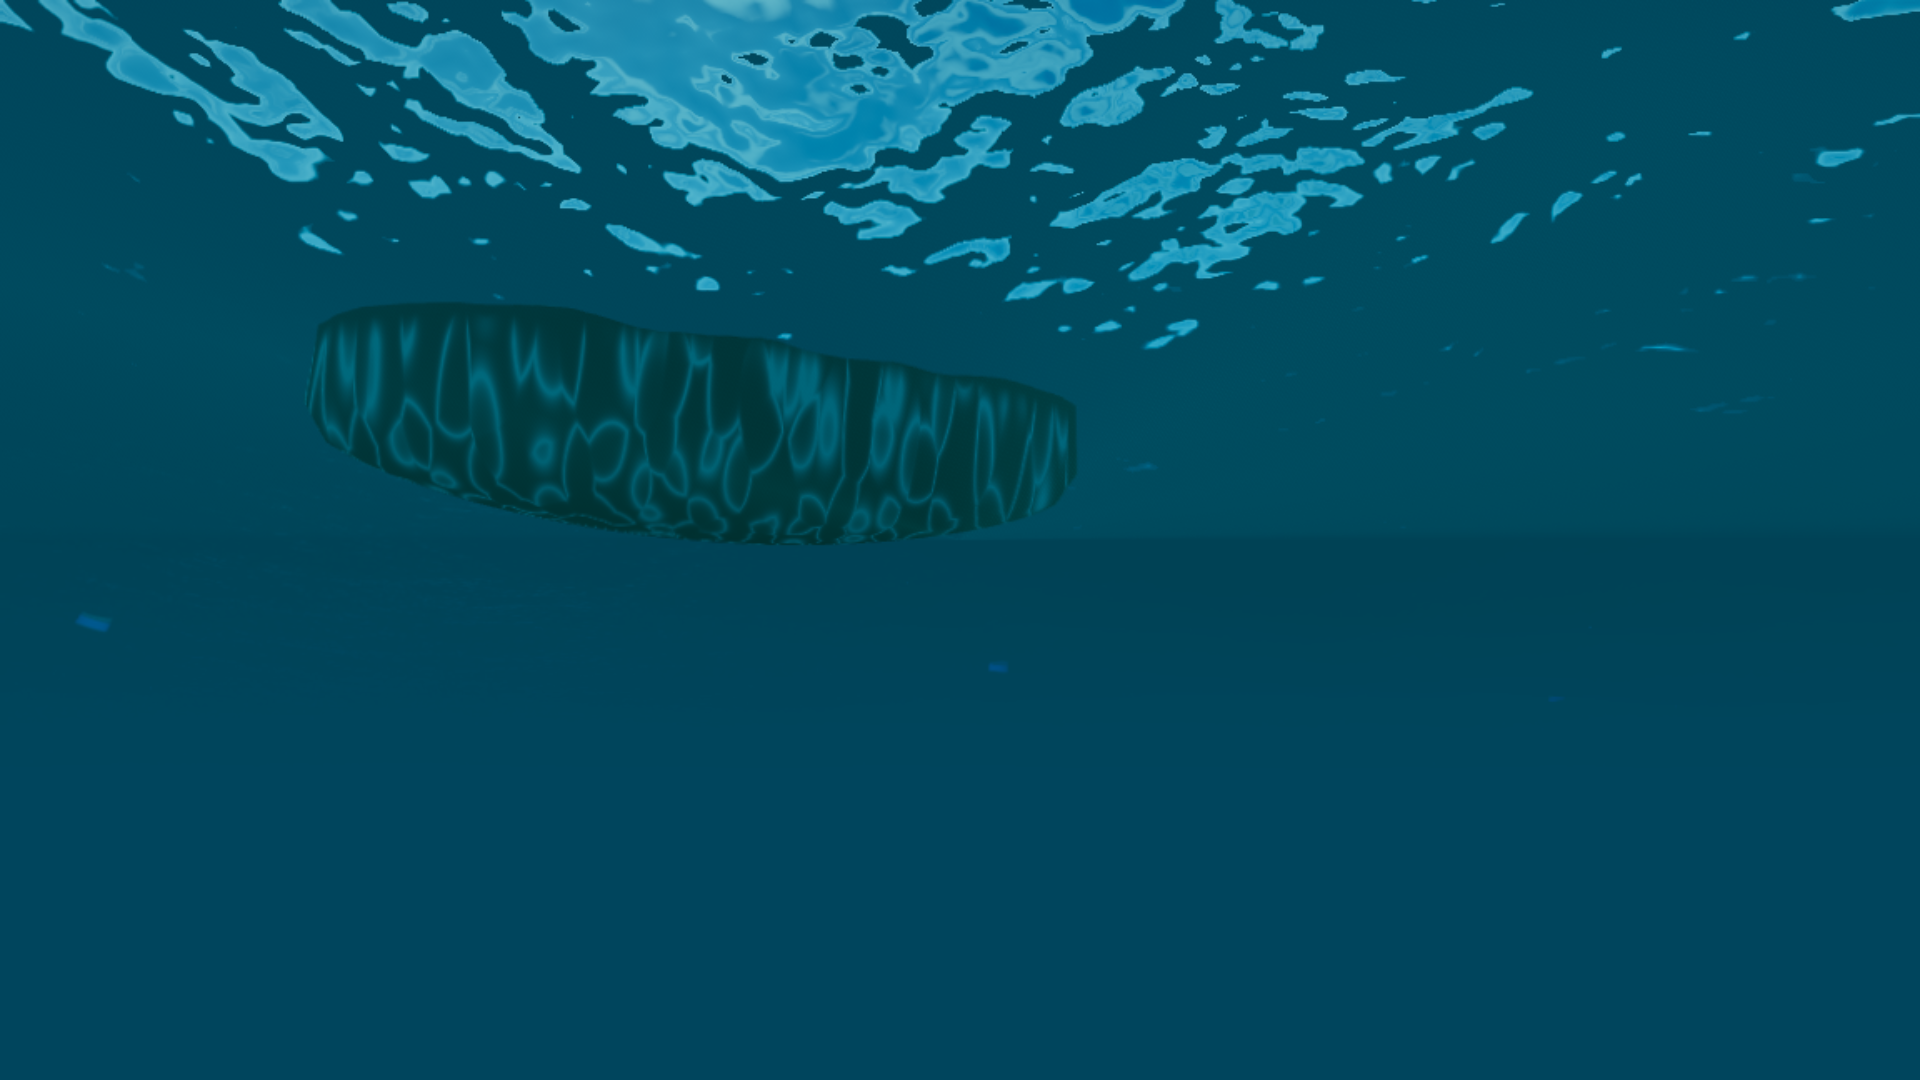
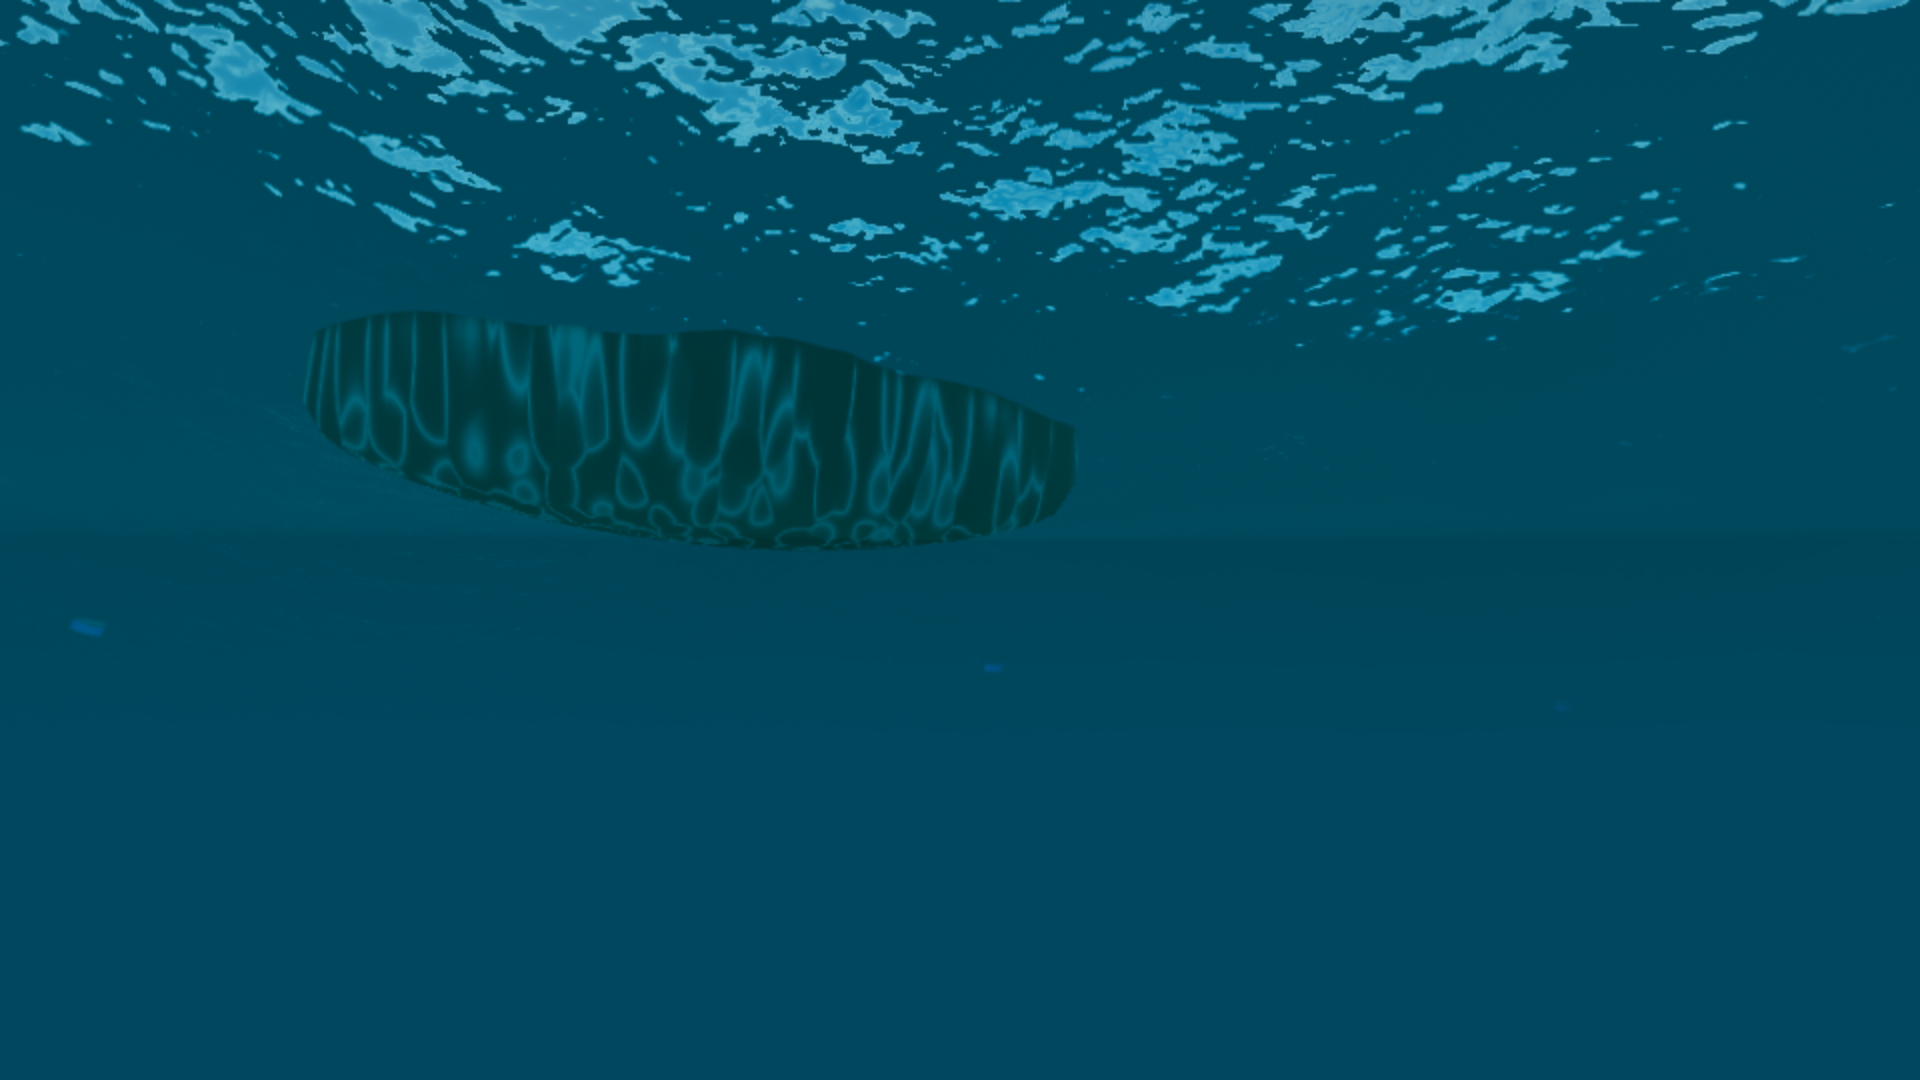
Find out why their water is a window and ours is a surface
Read their public API docs and changelog, and looked at the demo as an ordinary
visitor — research.md section 4's allowed side of the line, no bundle, no
assets, and the frames stay in a scratch directory.

The wave simulation is not the gap. Their published architecture is the same
family as ours down to the details: FFT on a JONSWAP spectrum, three cascades
named swell/waves/ripples, Jacobian breaking, per-channel Beer-Lambert, clipmap
LOD, metres and seconds. Everything we are behind on sits above that.

The one sentence that covers most of the still-frame difference is that their
water is a window and ours is a surface. In their foreground the reef reads from
near-black channels to bright sand, refracted and wobbling with the surface,
with the specular sitting on top of it. Ours is a pale wash.

The cause is in our own render order. main.js:137 puts a seabed mesh in the
scene and renders it. material.js:51 then draws an opaque water surface straight
over it and reconstructs the bottom analytically inside the shader instead. We
render the bottom twice and ship the worse one — and the analytic path
structurally cannot have real geometry, cannot hold the dynamic range (its
albedo spans 0.30 to 0.52 of the sand colour), and cannot show a submerged
object at all, which is why the hull vanishes below the waterline from above.

Their changelog names the same thing from the other side: "see-through thin
water from above; opaque at grazing angles."
[…]

diff --git a/src/ocean/material.js b/src/ocean/material.js
@@ -423,10 +423,40 @@ export function createOceanMaterial( env, field, sky, opts = {} ) {
 			// by the same scattering that limits visibility. Without this term they
 			// were painted at full strength onto every depth, and a lagoon lit at noon
 			// blew the whole frame to cream.
+			//
+			// And a caustic is focused *sunlight*, so anything that blocks the sun
+			// blocks it. The hull's shadow ellipse is already computed below for the
+			// surface; the bottom under her was still being lit at full strength,
+			// which is the giveaway that the caustic is a texture rather than light.
+			// Same ellipse, evaluated at the seabed point instead of the surface
+			// point, because that is where this light would have landed.
+			const bedShadow = float( 1.0 ).toVar( 'bedShadow' );
+
+			If( u.vesselMix.greaterThan( 0.001 ), () => {
+
+				const drop = u.sunDir.xz.div( max( u.sunDir.y, float( 0.30 ) ) )
+					.mul( waterDepth.add( 1.4 ) );
+				const relS = bedPoint.xz.sub( u.vesselPos.xz ).add( drop );
+				const c = u.vesselDir.x, sn = u.vesselDir.y;
+				const local = vec2(
+					relS.x.mul( c ).sub( relS.y.mul( sn ) ),
+					relS.x.mul( sn ).add( relS.y.mul( c ) )
+				).div( u.vesselHalf );
+
+				// Softer than the surface shadow: the penumbra of a hull seen from
+				// the seabed grows with the depth of water it is cast through.
+				const soft = waterDepth.mul( 0.06 ).add( 0.35 );
+				bedShadow.assign( oneMinus(
+					oneMinus( smoothstep( float( 0.55 ), float( 0.55 ).add( soft ), length( local ) ) ).mul( 0.85 )
+				) );
+
+			} );
+
 			const caustic = causticPattern( bedPoint.xz, u.time, float( 1.15 ) )
 				.mul( u.causticStrength )
 				.mul( exp( waterDepth.mul( - 0.11 ) ) )
 				.mul( saturate( u.sunDir.y.mul( 2.0 ) ) )
+				.mul( bedShadow )
 				.toVar( 'caustic' );
 
 			bedColor.assign( seabedAlbedo( bedPoint.xz, u.seabedColor )

diff --git a/gap-analysis.md b/gap-analysis.md
@@ -1,0 +1,167 @@
+# 상용 참조와의 근본 차이 — 조사 결과
+
+2026-08-02. 대상: Three.js Water Pro (threejswaterpro.com).
+
+## 0. 조사 방법과 경계
+
+`research.md` §4를 그대로 따랐다.
+
+- **한 것**: 일반 방문자로 데모 페이지를 열어 관찰, 공개 문서 사이트
+  (`docs.threejswaterpro.com`)의 API 레퍼런스·체인지로그 열람, 공개 기법 문헌 대조.
+- **하지 않은 것**: 번들 디컴파일, 비공개 셰이더·텍스처·모델·설정 추출,
+  네트워크 요청에서 자산 저장. 관찰용 스크린샷은 스크래치패드에만 두고
+  저장소에 넣지 않았으며 텍스처·배경으로 쓰지 않는다.
+- 이 문서의 모든 항목은 **공개 정보 또는 화면 관찰**에서 나온 것이고,
+  구현 방법은 전부 공개된 일반 기법으로 우리가 독자적으로 재작성할 대상이다.
+
+## 1. 같은 것 — 여기는 격차가 아니다
+
+공개 문서가 명시한 그들의 기반은 우리와 사실상 같은 계열이다.
+
+| 항목 | 그들 | 우리 |
+|---|---|---|
+| 파동 | FFT, JONSWAP 스펙트럼 | FFT, JONSWAP 스펙트럼 |
+| 캐스케이드 | 3단 (swell / waves / ripples) | 3단 (512 / 96 / 18 m) |
+| 파괴 판정 | Jacobian 기반 | Jacobian 기반 |
+| 지오메트리 | clipmap + LOD | 동심 링 + LOD |
+| 흡수 | Beer–Lambert 채널별 | Beer–Lambert 채널별 |
+| 물리 단위 | 실제 m/s로 보정 | Hs 실측 1.948 m / 요청 2.0 m |
+| 부력 | 있음 | 4점 평면 피팅 |
+| 백엔드 | TSL + WebGPU, WebGL 폴백 | TSL + WebGPU, WebGL 2 폴백 |
+
+**즉 파동 시뮬레이션은 격차가 아니다.** 우리가 뒤지는 곳은 전부 그 위쪽,
+"물을 어떻게 보이게 하는가"에 있다.
+
+## 2. 근본 차이 — 관찰에서 나온 한 문장
+
+> **그들의 물은 창(window)이고, 우리 물은 표면(surface)이다.**
+
+참조 데모의 전경에서는 산호초·모래·깊은 수로가 **거의 검정부터 밝은 청록까지의
+전체 계조로** 보이고, 그 무늬가 수면 파도에 따라 굴절되어 흔들린다. 동시에 수면
+자체의 스페큘러와 잔물결이 그 위에 얹힌다. 물이 **투명한 매질**로 작동한다.
+
+우리 것은 같은 조건(Coral Shallows)에서 바닥이 **옅은 세척된 톤**으로만 나오고
+대비가 거의 없다. 물이 **색이 칠해진 판**으로 작동한다.
+
+### 원인 (코드에서 확인)
+
+`src/main.js:137` 은 해저 메시를 씬에 넣어 **실제로 렌더한다**.
+그런데 `src/ocean/material.js:51` 의 수면은 `transparent = false` 인 불투명 재질이라
+그 위에 그려지며 해저를 완전히 덮는다. 그리고 같은 셰이더가
+`seabedHeight()` / `seabedAlbedo()` 로 **바닥을 해석적으로 다시 만들어** 대체한다.
+
+**같은 바닥을 두 번 그리고, 둘 중 나쁜 쪽을 화면에 내보내고 있다.**
+
+해석적 재구성의 한계는 구조적이다:
+
+1. 실제 지오메트리가 없으므로 그림자·차폐·정확한 형태가 없다.
+2. `seabedAlbedo` 가 돌려주는 값은 `sand × (0.30 + grain×0.22)`, 잡초가
+   `× (0.14, 0.24, 0.20)` — **동적 범위가 좁다.** 실제 리프의 "검은 수로 대 밝은 모래"
+   대비가 애초에 만들어지지 않는다.
+3. **수몰된 물체를 전혀 보여줄 수 없다.** 선체의 수면 아래 부분, 부표의 잠긴 부분이
+   위에서 볼 때 사라진다. 참조에서는 보인다.
+4. `volume` 인스캐터가 전 화면에 같은 세기로 더해져 바닥을 **균일하게 뿌옇게** 만든다.
+   참조의 근거리 물은 실제로 얇아서 베일이 거의 없다.
+
+참조 체인지로그의 표현이 정확히 이것을 가리킨다:
+*"Local Fresnel-based transparency: see-through thin water from above; opaque at
+grazing angles."*
+
+## 3. 격차 목록 — 영향 순
+
+### G1. 굴절이 렌더가 아니라 가짜다 ★★★★★
+
+위 §2. 이것 하나가 정지 화면 인상의 대부분이다.
+
+**좁히는 법**: 수면을 그리기 전에 씬(해저 + 수몰 지오메트리)을 타깃에 렌더하고,
+수면이 **굴절된 화면 UV로 그 타깃을 샘플**하게 한다. 표준 기법이고 새 발명이 아니다.
+
+우리 쪽 사정이 유리하다: `src/underwater/pipeline.js` 가 이미 `pass(scene, camera)` 로
+씬 컬러 타깃을 만든다. 수중에서만 켜지는 그 구조를 **수상에서도 쓰도록** 돌리면 된다.
+필요한 것은 (a) 수면을 씬에서 분리해 나중에 그리기, (b) 굴절 UV = `screenUV + 표면 경사 ×
+깊이 비례 계수`, (c) 굴절 샘플이 수면보다 앞의 물체를 집어오는 경우의 폴백.
+
+`seabedHeight`/`seabedAlbedo` 는 **수중 패스와 지오메트리 생성용으로 남기고**,
+수면의 해석적 바닥 경로는 삭제한다.
+
+비용: 풀스크린 타깃 1장 + 샘플 1회. 현재 수상 60 fps에 여유가 있다
+(1080p High가 vsync 상한이므로 실제 여유는 미측정 — `?noshafts=1` 식 킬 스위치로 재야 한다).
+
+### G2. 인스캐터가 근거리까지 균일하게 뿌옇다 ★★★★
+
+`volume` 이 `bodyLight` 와 `skyLight` 로 항상 같은 양 더해진다.
+Beer–Lambert 투과 `T` 는 바닥이 있을 때만 살아 있고(`× u.seabedMix`),
+바닥 없는 8개 프리셋에서는 인스캐터가 전부다.
+
+**좁히는 법**: 인스캐터를 **시선이 지나온 물의 두께**에 비례시킨다.
+G1이 들어오면 굴절 샘플까지의 실제 광학 거리가 생기므로 자연스럽게 따라온다.
+
+### G3. 스프레이가 없다 ★★★★
+
+참조 체인지로그: *"Sea spray emitters — 16 emitters with 32 probes"*.
+깨지는 마루에서 튀어 흩날리는 물보라. **우리는 전혀 없다.**
+Storm Front에서 가장 크게 벌어지는 항목이고, 정지 화면보다 **움직일 때** 차이가 크다.
+
+**좁히는 법**: 마루 마스크가 임계를 넘는 지점에서 GPU 파티클을 방출.
+`foam.js` 가 이미 프레임마다 마루 위치를 알고 있으므로 방출점은 공짜다.
+
+### G4. 포말이 한 층뿐이다 ★★★
+
+참조는 **세 층**: 마루 백파 / 상시 표면 포말 / 해안선 포말.
+우리는 마루 백파 + 항적 + 흘수선 칼라 — 즉 **상시 표면 포말이 없다.**
+실제 바다에는 바람이 만든 옅은 포말 줄무늬가 항상 깔려 있고, 그게 없으면
+파도 사이 물이 지나치게 깨끗해 보인다.
+
+**좁히는 법**: 풍속에 비례하는 저주파 줄무늬 포말을 풍향으로 늘려 깔고,
+포말 히스토리의 남는 채널(`.b`)에 넣는다. `.r` 백파, `.g` 항적, `.b` 상시.
+
+### G5. 반사가 절차적 하늘 + 40 m 평면 패스뿐이다 ★★★
+
+참조는 SSR을 갖고 있다(`ssr` 옵션). 우리 `PropReflection` 은 배 전용이고
+`reflNear` 로 40 m 안쪽에만 적용된다. 그 밖의 모든 것은 절차적 하늘만 반사한다.
+
+**좁히는 법**: G1이 씬 컬러 타깃을 만들면 SSR의 절반은 이미 갖춰진다.
+다만 SSR은 비용과 아티팩트가 크므로 G1~G4 뒤로 미룬다.
+
+### G6. 항적이 포말일 뿐 변위가 아니다 ★★
+
+참조: *"dispersive ship wakes"* — **수면이 실제로 변형된다**.
+우리 항적은 포말 히스토리에만 있고 높이장은 건드리지 않는다.
+
+**좁히는 법**: 항적을 캐스케이드 변위에 더하는 별도 변위 필드로.
+분산 관계(짧은 파가 뒤처짐)를 지키지 않으면 켈빈 각이 깨진다.
+
+### G7. 카우스틱이 그림자에 가려지지 않는다 ★★
+
+참조: *"Sun-shadow occluded caustics"*. 선체 아래 바닥에 카우스틱이 계속 밝게 남는
+우리와 달리, 그림자 안에서는 사라진다.
+
+**좁히는 법**: 이미 `hullSunOcc` 를 갖고 있다. 같은 타원을 해저 카우스틱에도 곱한다.
+**가장 싸다.**
+
+### G8. 미세 스페큘러 밀도 ★★
+
+참조 근거리 수면은 작고 날카로운 반짝임이 조밀하다. 우리 것은 더 넓고 뭉툭하다.
+`rippleSlope` 의 미세 옥타브가 30~400 m에서 페이드아웃되는데,
+그 페이드가 근거리에서도 진폭을 억제하고 있을 가능성.
+
+**좁히는 법**: G1~G4 뒤에 `sparkle` 상당의 전용 항으로 재검토.
+지금 건드리면 앨리어싱 회귀 위험이 크다(이번 세션에 이미 한 번 겪었다).
+
+## 4. 권고 순서
+
+1. **G7** — 몇 줄. 이미 있는 항을 한 번 더 곱한다.
+2. **G1 + G2** — 함께 해야 한다. 이 프로젝트에서 **단일 최대 시각 개선**이고,
+   구조 변경이지만 재료(`pass(scene, camera)`)가 이미 있다.
+3. **G4** — 채널 하나. 싸고 확실하다.
+4. **G3** — 새 서브시스템. 움직임에서의 인상을 크게 바꾼다.
+5. **G6**, **G5**, **G8** — 그 다음.
+
+## 5. 하지 않을 것
+
+- 참조의 프리셋 이름, UI 배치, 카피, 로고를 따라가지 않는다.
+  (게임 타이틀명을 쓰지 않은 기존 결정과 같은 이유.)
+- 참조 스크린샷을 자산으로 쓰지 않는다.
+- 위 기법은 전부 공개된 일반 기법이며, 구현은 우리 코드베이스에서
+  독자적으로 작성한다. 오픈소스를 직접 가져오는 경우 `research.md` 규칙대로
+  파일별 라이선스와 고지를 기록한다.
